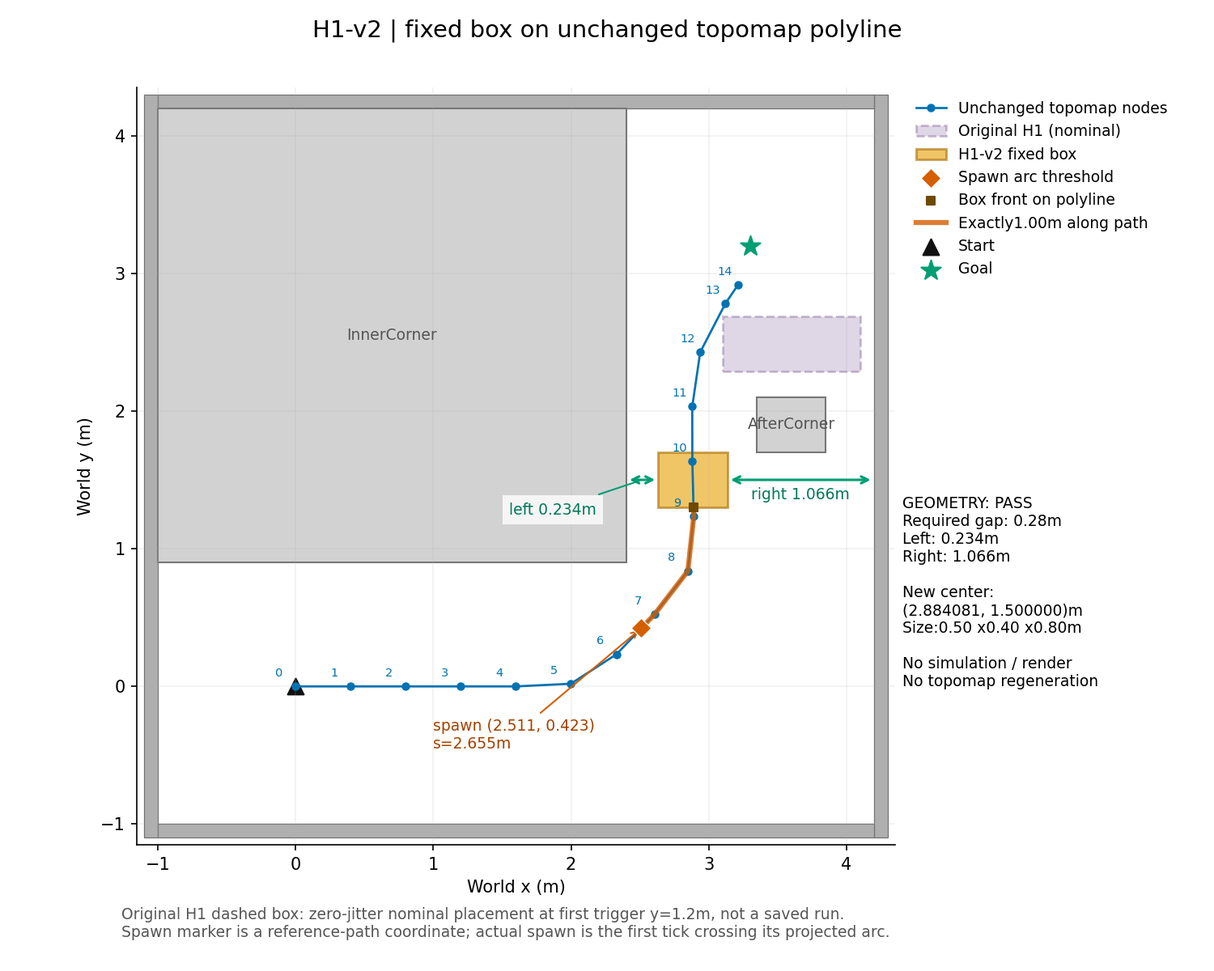
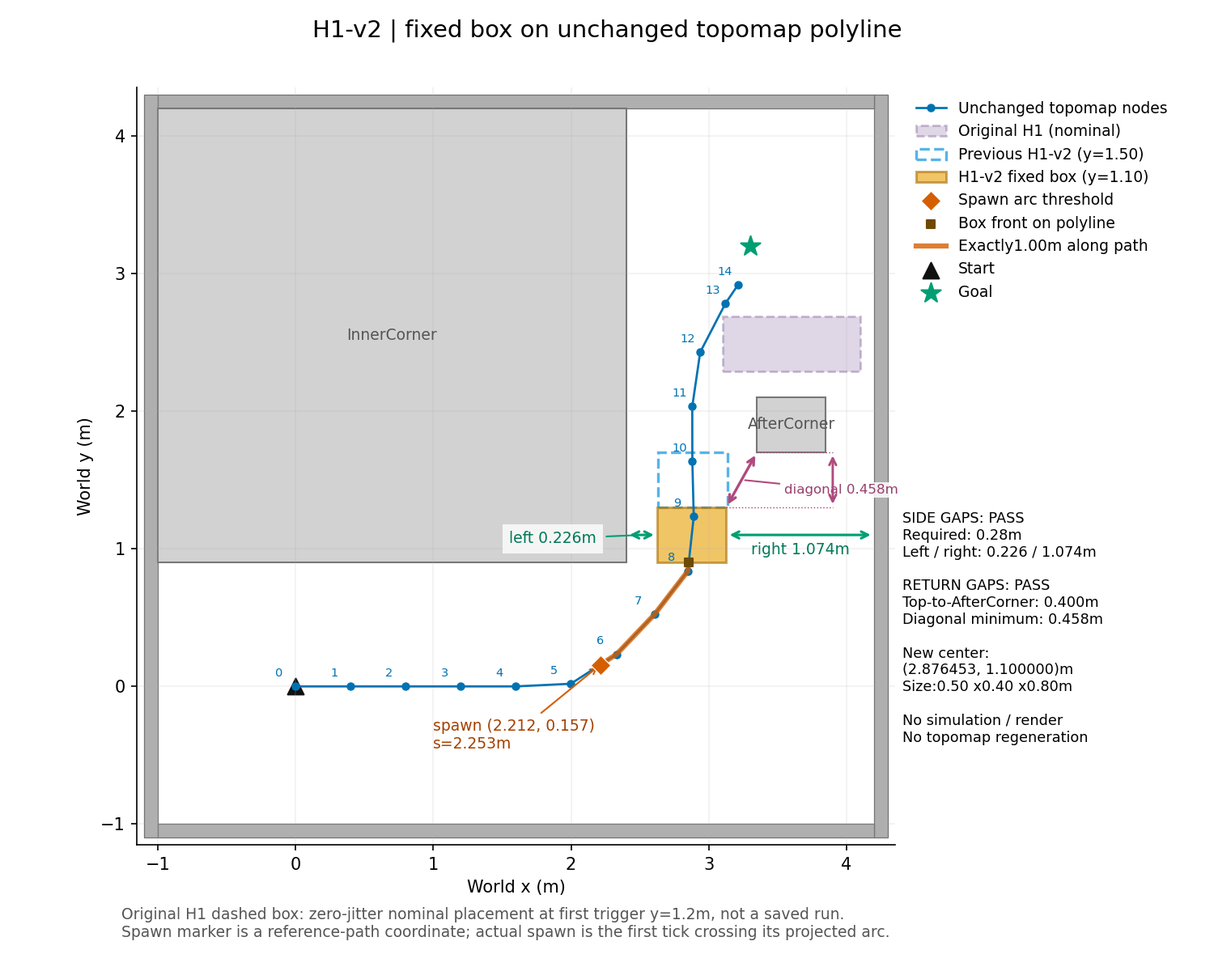
Move H1-v2 box to y1.10 and report exact return corridor gaps

diff --git a/research/nomad_h1v2/prepare.py b/research/nomad_h1v2/prepare.py
@@ -10,31 +10,35 @@ from nomad_isaac.common import ROOT,sha256_file
 from nomad_phase26.config import runtime_config
 from nomad_phase26.scenes import place as old_place
 from nomad_phase38.scenes import gap_check
-from .scene import HERE,SIZE,polyline,target,nearest_nonoverlap,box_front,at,overlap_reasons
+from .scene import HERE,SIZE,polyline,target,nearest_nonoverlap,box_front,at,overlap_reasons,return_gap_check
 
 def save(path,value):path.parent.mkdir(exist_ok=True,parents=True);path.write_text(json.dumps(value,indent=2,ensure_ascii=False,allow_nan=False)+'\n')
 
 def build():
     c=runtime_config('C0',201,90,'H1');manifest=Path(c['topomap_manifest']);m=json.loads(manifest.read_text());points=np.array([n['world_pose'][:2] for n in m['nodes']])
-    desired,s_desired=target(points);center,s_center,adjusted=nearest_nonoverlap(c,points,desired,s_desired)
+    desired,s_desired=target(points,1.10);center,s_center,adjusted=desired,s_desired,False
+    previous,previous_s=target(points,1.5)
     front_s,front=box_front(points,center);spawn_s=front_s-1.
     if spawn_s<0:raise ValueError('Box front is less than1m from reference start; cannot define requested trigger')
     spawn,i=at(points,spawn_s);delta=points[i+1]-points[i];yaw=float(np.arctan2(delta[1],delta[0]))
     box=dict(id='DynamicObstacle',center_xy_m=center.tolist(),size_xyz_m=list(SIZE))
-    gap=gap_check(c,box,1)
+    gap=gap_check(c,box,1);return_gap=return_gap_check(c,box);overlaps=overlap_reasons(c,center)
+    previous_box=dict(id='PreviousH1v2',center_xy_m=previous.tolist(),size_xyz_m=list(SIZE))
     old_robot,_=target(points,1.2);old=old_place(c,[*old_robot,np.pi/2],0)
-    assert old['status']=='PLACED' and not overlap_reasons(c,center)
+    assert old['status']=='PLACED'
     sources=[ROOT/'research/nomad_isaac/scenarios/phase16_lc.json',ROOT/'research/nomad_phase26/config.py',ROOT/'research/nomad_phase26/scenes.py',ROOT/'research/nomad_phase26/rendering.py',ROOT/'research/nomad_phase26/protocol.json',ROOT/'research/nomad_phase38/scenes.py',manifest]
     refs=[]
     for n in m['nodes']:
         f=manifest.parent/n['rgb_file'];assert sha256_file(f)==n['png_sha256'];refs.append(f)
     hashes={os.path.relpath(f,ROOT):sha256_file(f) for f in sources+refs}
-    spec=dict(scene='H1-v2',status='GEOMETRY_PREPARED' if gap['passed'] else 'GAP_CHECK_FAIL',simulations=0,renders=0,
+    spec=dict(scene='H1-v2',status='GEOMETRY_PREPARED' if gap['passed'] and return_gap['passed'] and not overlaps else 'GEOMETRY_CHECK_FAIL',simulations=0,renders=0,
         frozen_geometry={k:c[k] for k in ('corridor','obstacles','start_pose','goal_pose','agent_radius_m')},
         topomap_manifest=str(manifest),topomap_sha256=sha256_file(manifest),topomap_nodes_xy_m=points.tolist(),
-        source_sha256=hashes,requested_target=dict(x_hint_m=2.5,y_m=1.5,position_xy_m=desired.tolist(),arc_m=s_desired),
+        source_sha256=hashes,requested_target=dict(x_hint_m=2.5,y_m=1.10,position_xy_m=desired.tolist(),arc_m=s_desired),
         box=dict(box,arc_m=s_center,yaw_rad=0.),position_adjusted_for_overlap=adjusted,
-        nearest_position_rule='If overlap only: minimum Euclidean displacement from requested polyline point;ties arc displacement then earliest arc. No movement after gap failure.',
+        nearest_position_rule='Fixed polyline y=1.10;no relocation on overlap,gap or return-gap failure.',
+        static_overlap_reasons=overlaps,return_gap_check=return_gap,
+        previous_h1v2_preview=dict(box=previous_box,arc_m=previous_s,source_commit='88fd53a',return_gap_check=return_gap_check(c,previous_box)),
         box_front=dict(position_xy_m=front.tolist(),arc_m=front_s,definition='first intersection of forward topomap node polyline with closed box footprint'),
         spawn=dict(position_xy_m=spawn.tolist(),heading_rad=yaw,arc_m=spawn_s,lead_arc_m=1.,
             rule='First72Hz tick with projected robot-center arc>=box_front_arc-1.0m,once only;projection onto stored node polyline,no actual tick/time predetermined'),
@@ -57,8 +61,10 @@ def preview(p):
     for i,point in enumerate(points):ax.annotate(str(i),point,xytext=(-12,6),textcoords='offset points',color='#0072B2',fontsize=7)
     old=p['existing_h1_preview']['box'];cc=np.array(old['center_xy_m']);hh=np.array(old['size_xyz_m'][:2])/2
     ax.add_patch(Rectangle(cc-hh,*2*hh,fc='#A58ABA',ec='#6A4387',ls='--',lw=1.3,alpha=.35,label='Original H1 (nominal)'))
+    previous=p['previous_h1v2_preview']['box'];pc=np.asarray(previous['center_xy_m']);ph=np.asarray(previous['size_xyz_m'][:2])/2
+    ax.add_patch(Rectangle(pc-ph,*2*ph,fc='none',ec='#56B4E9',ls='--',lw=1.6,label='Previous H1-v2 (y=1.50)'))
     center=np.asarray(p['box']['center_xy_m']);half=np.asarray(SIZE[:2])/2
-    ax.add_patch(Rectangle(center-half,*2*half,fc='#E69F00',ec='#A76B00',alpha=.6,lw=1.4,label='H1-v2 fixed box'))
+    ax.add_patch(Rectangle(center-half,*2*half,fc='#E69F00',ec='#A76B00',alpha=.6,lw=1.4,label='H1-v2 fixed box (y=1.10)'))
     spawn=np.asarray(p['spawn']['position_xy_m']);front=np.asarray(p['box_front']['position_xy_m'])
     ax.scatter(*spawn,marker='D',s=70,c='#D55E00',ec='white',lw=.6,zorder=8,label='Spawn arc threshold')
     ax.scatter(*front,marker='s',s=24,c='#6E4A00',zorder=8,label='Box front on polyline')
@@ -67,46 +73,63 @@ def preview(p):
     ax.annotate(f"spawn ({spawn[0]:.3f}, {spawn[1]:.3f})\ns={ss:.3f}m",spawn,xytext=(1.0,-.45),arrowprops=dict(arrowstyle='->',color='#D55E00'),color='#A54100',fontsize=9)
     left,right=p['gap_check']['gaps_m'];xl=center[0]-half[0]-left;xr=center[0]+half[0]+right
     for a,b in [(xl,center[0]-half[0]),(center[0]+half[0],xr)]:ax.annotate('',xy=(a,center[1]),xytext=(b,center[1]),arrowprops=dict(arrowstyle='<->',lw=1.5,color='#009E73'))
-    ax.annotate(f'left {left:.3f}m',xy=((xl+center[0]-half[0])/2,center[1]),xytext=(1.55,1.25),color='#007958',fontsize=9,
+    ax.annotate(f'left {left:.3f}m',xy=((xl+center[0]-half[0])/2,center[1]),xytext=(1.55,1.04),color='#007958',fontsize=9,
         arrowprops=dict(arrowstyle='-',color='#009E73'),bbox=dict(fc='white',ec='none',alpha=.8))
     ax.text((center[0]+half[0]+xr)/2,center[1]-.14,f'right {right:.3f}m',color='#007958',ha='center',fontsize=9)
+    back=p['return_gap_check'];qa=np.asarray(back['closest_box_point_xy_m']);qb=np.asarray(back['closest_aftercorner_point_xy_m'])
+    ax.annotate('',xy=qa,xytext=qb,arrowprops=dict(arrowstyle='<->',lw=1.6,color='#B04A7E'))
+    ax.annotate(f"diagonal {back['diagonal_minimum_m']:.3f}m",xy=(qa+qb)/2,xytext=(3.55,1.40),ha='left',color='#963E6D',fontsize=8,
+        arrowprops=dict(arrowstyle='-',color='#B04A7E'),bbox=dict(fc='white',ec='none',alpha=.85,pad=1))
+    vertical_x=3.90
+    ax.annotate('',xy=(vertical_x,back['top_surface_y_m']),xytext=(vertical_x,back['aftercorner_bottom_y_m']),arrowprops=dict(arrowstyle='<->',color='#B04A7E',lw=1.4))
+    ax.plot([qa[0],vertical_x],[back['top_surface_y_m']]*2,':',color='#B04A7E',lw=.7)
+    ax.plot([qb[0],vertical_x],[back['aftercorner_bottom_y_m']]*2,':',color='#B04A7E',lw=.7)
     ax.scatter(*c['start_pose'][:2],s=90,marker='^',c='#111111',label='Start');ax.scatter(*c['goal_pose'][:2],s=150,marker='*',c='#009E73',label='Goal')
     ax.set(xlim=(x0-.15,x1+.15),ylim=(y0-.15,y1+.15),xlabel='World x (m)',ylabel='World y (m)');ax.set_aspect('equal');ax.grid(alpha=.18)
     ax.legend(loc='upper left',bbox_to_anchor=(1.01,1.),frameon=False,fontsize=9)
-    ax.text(1.01,.46,f"GEOMETRY: {p['gap_check']['reason']}\nRequired gap: {p['gap_check']['required_gap_m']:.2f}m\nLeft: {left:.3f}m\nRight: {right:.3f}m\n\nNew center:\n({center[0]:.6f}, {center[1]:.6f})m\nSize:0.50 x0.40 x0.80m\n\nNo simulation / render\nNo topomap regeneration",transform=ax.transAxes,va='top',fontsize=9)
+    ax.text(1.01,.44,f"SIDE GAPS: {p['gap_check']['reason']}\nRequired: {p['gap_check']['required_gap_m']:.2f}m\nLeft / right: {left:.3f} / {right:.3f}m\n\nRETURN GAPS: {back['reason']}\nTop-to-AfterCorner: {back['top_to_aftercorner_m']:.3f}m\nDiagonal minimum: {back['diagonal_minimum_m']:.3f}m\n\nNew center:\n({center[0]:.6f}, {center[1]:.6f})m\nSize:0.50 x0.40 x0.80m\n\nNo simulation / render\nNo topomap regeneration",transform=ax.transAxes,va='top',fontsize=8.5)
     fig.suptitle('H1-v2 | fixed box on unchanged topomap polyline',fontsize=14)
     fig.text(.1,.035,'Original H1 dashed box: zero-jitter nominal placement at first trigger y=1.2m, not a saved run.\nSpawn marker is a reference-path coordinate; actual spawn is the first tick crossing its projected arc.',fontsize=9,color='#555555')
     path=ROOT/'docs/figures/h1v2_scene_preview.png';path.parent.mkdir(exist_ok=True);fig.savefig(path,dpi=150);plt.close(fig);return path
 
 def document(p,test_count):
     def xy(q):return f'({q[0]:.6f}, {q[1]:.6f})'
-    old=p['existing_h1_preview']['box'];new=p['box'];front=p['box_front'];spawn=p['spawn'];gap=p['gap_check']
+    old=p['existing_h1_preview']['box'];new=p['box'];front=p['box_front'];spawn=p['spawn'];gap=p['gap_check'];back=p['return_gap_check'];prev=p['previous_h1v2_preview']
     table='\n'.join(['| 항목 | 좌표 / 값 | 경로 호장 s (m) |','|---|---|---:|',
-        f"| H1-v2 중심 | {xy(new['center_xy_m'])} m | {new['arc_m']:.6f} |",
-        '| 상자 크기 / yaw | 0.5 × 0.4 × 0.8 m (world x/y/z), 0 rad; AfterCorner와 동일 | — |',
+        f"| H1-v2 새 중심(y=1.10) | {xy(new['center_xy_m'])} m | {new['arc_m']:.6f} |",
+        '| 상자 크기 / yaw | 0.5 × 0.4 × 0.8 m (world x/y/z), 0 rad; 변경 없음 | — |',
         f"| 상자 앞면·polyline 교점 | {xy(front['position_xy_m'])} m | {front['arc_m']:.6f} |",
         f"| spawn 기준점 | {xy(spawn['position_xy_m'])} m; tangent {np.degrees(spawn['heading_rad']):.3f}° | {spawn['arc_m']:.6f} |",
-        f"| 기존 H1 기준 상자 중심 | {xy(old['center_xy_m'])} m; 1.0 × 0.4 × 0.8 m | — |",
+        f"| 이전 H1-v2 중심(y=1.50, 점선) | {xy(prev['box']['center_xy_m'])} m | {prev['arc_m']:.6f} |",
+        f"| 원 H1 기준 상자 중심 | {xy(old['center_xy_m'])} m; 1.0 × 0.4 × 0.8 m | — |",
         f"| 좌측 틈(진행 +y 기준 −x) | {gap['left_m']:.6f} m | — |",
         f"| 우측 틈(진행 +y 기준 +x) | {gap['right_m']:.6f} m | — |",
-        f"| Phase38 최소 통과 폭 | 2 × 0.09 + 0.1 = {gap['required_gap_m']:.2f} m; 한쪽 이상 | — |"])
-    text=f'''# H1-v2 장면 준비
+        f"| 최소 통과 폭 | 2 × 0.09 + 0.1 = {gap['required_gap_m']:.2f} m | — |"])
+    comparison='\n'.join(['| 복귀 통로 검사 | 이전 y=1.50 | 새 y=1.10 | 기준 / 판정 |','|---|---:|---:|---|',
+        f"| 상자 윗면 → AfterCorner 아랫면의 y 간격 | {prev['return_gap_check']['top_to_aftercorner_m']:.6f} m | {back['top_to_aftercorner_m']:.6f} m | ≥0.28m / {'PASS' if back['checks']['top_to_aftercorner'] else 'FAIL'} |",
+        f"| 두 상자 표면의 최단 유클리드 거리(대각선) | {prev['return_gap_check']['diagonal_minimum_m']:.6f} m | {back['diagonal_minimum_m']:.6f} m | ≥0.28m / {'PASS' if back['checks']['diagonal_minimum'] else 'FAIL'} |",
+        f"| 위 두 검사 모두 만족 | {prev['return_gap_check']['reason']} | {back['reason']} | 위치 재조정 없음 |"])
+    text=f'''# H1-v2 장면 준비 — y=1.10 수정
 
-**{gap['reason']} — 정적 좌표 검증만 수행. 시뮬레이션·렌더·Topomap 재생성 0회.** 기존 H1 및 다른 장면·방법 코드는 변경하지 않았다.
+**측면 gap {gap['reason']} / 복귀 통로 {back['reason']}.** 정적 좌표 검증만 수행했다. 시뮬레이션·depth 렌더·Topomap 재생성 0회. 기존 H1 및 다른 장면·방법 코드는 변경하지 않았다.
 
 {table}
 
-Topomap 노드 pose를 잇는 polyline의 **y=1.5m 교점**을 사용했다. 이 경로의 x는 약2.884m이므로 `(2.5,1.5)`를 그대로 쓰지 않았다. 벽·정적 상자와 겹치지 않아 위치 조정은 없었다. Gap은 동결 `nomad_phase38.scenes.gap_check(axis=1)`을 직접 호출했다. 좌측은0.28m 미만이지만 우측이 통과하므로 PASS이며, gap 실패를 이유로 위치를 재조정하지 않는다.
+같은 Topomap 노드 polyline의 **y=1.10m 교점**에 중심을 고정했다. 크기·yaw·경로 호장 1.0m 전 spawn 규칙은 그대로다. 벽·정적 상자와 겹침은 없으며, overlap·gap·복귀 통로 검사 실패를 이유로 추가 위치를 찾거나 옮기지 않는다. 좌우 gap은 동결 `nomad_phase38.scenes.gap_check(axis=1)`을 직접 호출했다. 좌측은0.28m 미만이지만 우측이 기준을 만족한다.
 
-Spawn은 로봇 **중심**의 실제 pose를 같은 노드 polyline에 투영한 호장이 `s_front−1.0m` 이상이 되는 **첫72Hz tick**, 단1회다. 앞면은 진행 순서상 polyline이 상자 footprint에 처음 들어가는 교점이다. 1.0m는 경로 호장 차이이며 별도 반경 보정은 없다. 실제 tick·시각·pose는 주행 전에는 정하지 않는다. 그림의 spawn 점은 경로 위 기준점이다.
+{comparison}
 
-기존 H1 상자는 고정 y가 아니라 실제 spawn pose에 따라 달라진다. 비교 그림에는 jitter0·기존 첫 trigger y=1.2m 기준의 중심`(3.6,2.49)`를 썼다(원래 trigger 구간y=1.2~1.3이면 상자 중심y=2.49~2.59). 실제 과거 run의 위치로 해석하지 않는다. 새 상자는 seed/jitter와 무관한 고정 좌표다.
+복귀 통로 수치는 world 좌표의 물체 **표면 사이 폭**이다. 새 상자 윗면은 y={back['top_surface_y_m']:.3f}m, AfterCorner 아랫면은 y={back['aftercorner_bottom_y_m']:.3f}m이므로 y 간격은{back['top_to_aftercorner_m']:.3f}m이다. 두 사각형은 x방향으로도{back['horizontal_separation_m']:.6f}m 떨어져 있다. 따라서 정확한 표면 최소 거리는 `sqrt(Δx²+Δy²)`={back['diagonal_minimum_m']:.6f}m이며, 최근접 점은 새 상자 우상단{xy(back['closest_box_point_xy_m'])} ↔ AfterCorner 좌하단{xy(back['closest_aftercorner_point_xy_m'])}이다. 두 값 모두0.28m와 비교했다. 이는 우측 통과 후 복귀 구간의 **국소 정적 기하 검사**이며, PP 추종·전체 경로 완주를 시뮬레이션으로 검증한 결과는 아니다.
 
-![H1-v2 geometry preview](figures/h1v2_scene_preview.png)
+Spawn은 로봇 중심의 실제 pose를 동일 polyline에 투영한 호장이 `s_front−1.0m` 이상이 되는 첫72Hz tick, 단1회다. 앞면은 진행 순서상 polyline이 상자 footprint에 처음 들어가는 교점이다. 별도 반경 보정은 없다. 실제 tick·시각·pose는 미정이며 그림의 spawn 점은 경로 위 기준점이다.
 
-구현: `research/nomad_h1v2/scene.py`, 좌표·hash: `research/nomad_h1v2/scene.json`. 향후 H1 config에 `configure(h1_config)`를 적용한 뒤 기존 방법 환경 초기화 **후** `install_environment(config)`를 명시적으로 호출한다. 원 H1의 geometry·Topomap·렌더·접촉/통과 평가를 재사용하며 신규 monitor는 box 배치와 spawn 조건만 바꾼다. 이 준비는 campaign에 자동 연결하거나 실행하지 않는다.
+![H1-v2 updated geometry preview](figures/h1v2_scene_preview.png)
 
-기하 단위테스트 **{test_count}개 PASS**. Topomap15개 이미지와 manifest, 기존 H1 scene 및 참조 코드 hash를 고정·재확인했다. Topomap manifest SHA256: `{p['topomap_sha256']}`. 재생성 명령(시뮬레이션 없음): `PYTHONPATH=research /usr/bin/python3 -m nomad_h1v2.prepare`.
+주황 실선 상자는 새 위치, 하늘색 점선은 이전 H1-v2(y=1.50, 커밋 `88fd53a`), 보라 점선은 원 H1의 jitter0·기존 trigger y=1.2 기준 상자다. 원 H1 중심 `(3.6,2.49)`는 비교용 기준 배치이며 실제 과거 run 위치로 해석하지 않는다. 이전 H1-v2 좌표·복귀 검사 수치도 `scene.json`에 함께 남겼다.
+
+구현: `research/nomad_h1v2/scene.py`, 좌표·hash: `research/nomad_h1v2/scene.json`. 기존 명시적 `configure(h1_config)` → 원 방법 초기화 → `install_environment(config)` 연결 방식은 동일하다. 복귀 검사는 보고용이며 실행기·평가기·spawn 로직을 바꾸지 않는다. 본 준비는 campaign에 연결하거나 실행하지 않는다.
+
+기하 단위테스트 **{test_count}개 PASS**. 기존 H1 scene·Topomap15개 이미지·manifest 및 참조 코드 hash 재확인. Topomap SHA256: `{p['topomap_sha256']}`. 재생성 명령(시뮬레이션 없음): `PYTHONPATH=research /usr/bin/python3 -m nomad_h1v2.prepare`.
 '''
     (ROOT/'docs/H1V2_SCENE_PREP.md').write_text(text)
 
@@ -117,7 +140,7 @@ def main():
     import re
     n=int(re.search(r'Ran (\d+) tests',r.stderr).group(1));preview(p);document(p,n)
     from .scene import load_spec
-    load_spec();save(HERE/'validation.json',dict(tests_passed=n,simulations=0,renders=0,original_sources_unchanged=True,gap_check=p['gap_check'],
+    load_spec();save(HERE/'validation.json',dict(tests_passed=n,simulations=0,renders=0,original_sources_unchanged=True,gap_check=p['gap_check'],return_gap_check=p['return_gap_check'],
         source_sha256={f.name:sha256_file(f) for f in HERE.glob('*.py')},scene_sha256=sha256_file(HERE/'scene.json')))
     print(json.dumps(dict(status=p['status'],center=p['box']['center_xy_m'],spawn=p['spawn']['position_xy_m'],gaps=p['gap_check']['gaps_m'],tests=n,simulations=0)))
 if __name__=='__main__':main()

diff --git a/research/nomad_h1v2/test_scene.py b/research/nomad_h1v2/test_scene.py
@@ -10,19 +10,30 @@ from . import scene
 class Tests(unittest.TestCase):
     def setUp(self):self.base=runtime_config('C0',201,90,'H1');self.p=scene.load_spec()
     def test_requested_center_and_size(self):
-        q,s=scene.target(self.p['topomap_nodes_xy_m']);np.testing.assert_allclose(q,[2.8840808527897175,1.5],atol=1e-12,rtol=0)
+        q,s=scene.target(self.p['topomap_nodes_xy_m']);np.testing.assert_allclose(q,[2.8764528309775836,1.10],atol=1e-12,rtol=0)
         np.testing.assert_array_equal(q,self.p['box']['center_xy_m']);self.assertFalse(self.p['position_adjusted_for_overlap'])
         after=next(o for o in self.base['obstacles'] if o['id']=='AfterCorner');self.assertEqual(list(scene.SIZE),after['size_xyz_m'])
     def test_phase38_gap_and_no_overlap(self):
         p=self.p;self.assertEqual(scene.overlap_reasons(self.base,p['box']['center_xy_m']),[])
         result=gap_check(self.base,p['box'],1);self.assertTrue(result['passed']);self.assertEqual(result['required_gap_m'],.28)
-        np.testing.assert_allclose(result['gaps_m'],[.23408085278971758,1.0659191472102827],atol=1e-12,rtol=0)
+        np.testing.assert_allclose(result['gaps_m'],[.22645283097758373,1.0735471690224165],atol=1e-12,rtol=0)
     def test_front_and_one_meter_arc_trigger_once(self):
         c=scene.configure(self.base);p=c['h1v2'];front_s,front=scene.box_front(p['topomap_nodes_xy_m'],p['box']['center_xy_m'])
-        self.assertAlmostEqual(front[1],1.3);self.assertAlmostEqual(front_s-p['spawn']['arc_m'],1.)
+        self.assertAlmostEqual(front[1],.9);self.assertAlmostEqual(front_s-p['spawn']['arc_m'],1.)
         for delta,expected in [(-1e-5,False),(1e-5,True),(.02,True)]:
             xy,_=scene.at(p['topomap_nodes_xy_m'],p['spawn']['arc_m']+delta)
             self.assertEqual(scene.triggered(c,[*xy,0.],0),expected);self.assertFalse(scene.triggered(c,[*xy,0.],1))
+    def test_return_corridor_widths_and_exact_corner_witness(self):
+        r=scene.return_gap_check(self.base,self.p['box']);self.assertTrue(r['passed']);self.assertAlmostEqual(r['top_to_aftercorner_m'],.4)
+        self.assertAlmostEqual(r['diagonal_minimum_m'],.4582284766117627)
+        self.assertAlmostEqual(r['horizontal_separation_m'],.22354716902241645)
+        distance=np.linalg.norm(np.array(r['closest_box_point_xy_m'])-r['closest_aftercorner_point_xy_m'])
+        self.assertAlmostEqual(distance,r['diagonal_minimum_m']);self.assertEqual(r['required_gap_m'],.28)
+    def test_previous_position_return_check_failure_does_not_mutate_box(self):
+        box=copy.deepcopy(self.p['previous_h1v2_preview']['box']);before=copy.deepcopy(box)
+        r=scene.return_gap_check(self.base,box);self.assertFalse(r['passed']);self.assertEqual(box,before)
+        self.assertAlmostEqual(r['top_to_aftercorner_m'],0.);self.assertAlmostEqual(r['diagonal_minimum_m'],.2159191472102826)
+        self.assertEqual(r['checks'],dict(top_to_aftercorner=False,diagonal_minimum=False))
     def test_config_is_opt_in_and_preserves_frozen_inputs(self):
         before=copy.deepcopy(self.base);c=scene.configure(self.base);self.assertEqual(self.base,before)
         for k,v in before.items():

diff --git a/research/nomad_h1v2/scene.py b/research/nomad_h1v2/scene.py
@@ -28,7 +28,7 @@ def project(points,pose):
     q=a+u[:,None]*delta;i=int(np.argmin(np.sum((q-np.asarray(pose)[:2])**2,axis=1)))
     return float(arc[i]+u[i]*(arc[i+1]-arc[i])),q[i]
 
-def target(points,y=1.5,x_hint=2.5):
+def target(points,y=1.10,x_hint=2.5):
     xy,arc=polyline(points);found=[]
     for i,(a,b) in enumerate(zip(xy[:-1],xy[1:])):
         if abs(b[1]-a[1])<1e-12:
@@ -37,7 +37,7 @@ def target(points,y=1.5,x_hint=2.5):
         else:u=(y-a[1])/(b[1]-a[1])
         if 0<=u<=1:
             q=a+u*(b-a);s=arc[i]+u*(arc[i+1]-arc[i]);found.append((abs(q[0]-x_hint),float(s),q))
-    if not found:raise ValueError('Topomap polyline does not intersect y=1.5m')
+    if not found:raise ValueError(f'Topomap polyline does not intersect y={y}m')
     _,s,q=min(found,key=lambda item:(item[0],item[1]));return q,s
 
 def overlap_reasons(c,center,size=SIZE):
@@ -93,6 +93,28 @@ def box_front(points,center,size=SIZE):
         if left<=right:hits.append((float(arc[i]+left*(arc[i+1]-arc[i])),a+left*delta))
     if not hits:raise ValueError('Selected box does not intersect topomap polyline')
     return min(hits,key=lambda x:x[0])
+
+def return_gap_check(c,box):
+    """Report-only, exact static AABB surface gaps to AfterCorner.
+
+    Both physical widths are compared with2r+.1. No relocation, controller
+    change or navigation feasibility claim follows from this local check.
+    """
+    after=next(o for o in configured_obstacles(c) if o['id']=='AfterCorner')
+    lo=np.asarray(box['center_xy_m'])-np.asarray(box['size_xyz_m'][:2])/2
+    hi=np.asarray(box['center_xy_m'])+np.asarray(box['size_xyz_m'][:2])/2
+    a=np.asarray(after['center_xy_m'])-np.asarray(after['size_xyz_m'][:2])/2
+    b=np.asarray(after['center_xy_m'])+np.asarray(after['size_xyz_m'][:2])/2
+    sep=np.maximum(np.maximum(a-hi,lo-b),0.)
+    vertical=float(a[1]-hi[1]);distance=float(np.linalg.norm(sep));required=float(2*c['agent_radius_m']+.1)
+    first=np.clip((a+b)/2,lo,hi);second=np.clip(first,a,b);first=np.clip(second,lo,hi)
+    checks=dict(top_to_aftercorner=bool(vertical>=required),diagonal_minimum=bool(distance>=required))
+    return dict(passed=all(checks.values()),reason='PASS' if all(checks.values()) else 'RETURN_GAP_FAIL',required_gap_m=required,
+        top_surface_y_m=float(hi[1]),aftercorner_bottom_y_m=float(a[1]),top_to_aftercorner_m=vertical,
+        horizontal_separation_m=float(sep[0]),diagonal_minimum_m=distance,
+        closest_box_point_xy_m=first.tolist(),closest_aftercorner_point_xy_m=second.tolist(),checks=checks,
+        definition='top/bottom signed y gap and exact minimum Euclidean surface distance between world-axis-aligned boxes;physical width,not footprint clearance',
+        scope='Static local geometry only;no rollout or claim that PP can complete the return maneuver')
 
 def load_spec():
     p=json.loads((HERE/'scene.json').read_text())

diff --git a/docs/H1V2_SCENE_PREP.md b/docs/H1V2_SCENE_PREP.md
@@ -1,26 +1,35 @@
-# H1-v2 장면 준비
+# H1-v2 장면 준비 — y=1.10 수정
 
-**PASS — 정적 좌표 검증만 수행. 시뮬레이션·렌더·Topomap 재생성 0회.** 기존 H1 및 다른 장면·방법 코드는 변경하지 않았다.
+**측면 gap PASS / 복귀 통로 PASS.** 정적 좌표 검증만 수행했다. 시뮬레이션·depth 렌더·Topomap 재생성 0회. 기존 H1 및 다른 장면·방법 코드는 변경하지 않았다.
 
 | 항목 | 좌표 / 값 | 경로 호장 s (m) |
 |---|---|---:|
-| H1-v2 중심 | (2.884081, 1.500000) m | 3.855387 |
-| 상자 크기 / yaw | 0.5 × 0.4 × 0.8 m (world x/y/z), 0 rad; AfterCorner와 동일 | — |
-| 상자 앞면·polyline 교점 | (2.889147, 1.300000) m | 3.655323 |
-| spawn 기준점 | (2.510571, 0.422807) m; tangent 46.406° | 2.655323 |
-| 기존 H1 기준 상자 중심 | (3.600000, 2.490000) m; 1.0 × 0.4 × 0.8 m | — |
-| 좌측 틈(진행 +y 기준 −x) | 0.234081 m | — |
-| 우측 틈(진행 +y 기준 +x) | 1.065919 m | — |
-| Phase38 최소 통과 폭 | 2 × 0.09 + 0.1 = 0.28 m; 한쪽 이상 | — |
+| H1-v2 새 중심(y=1.10) | (2.876453, 1.100000) m | 3.454524 |
+| 상자 크기 / yaw | 0.5 × 0.4 × 0.8 m (world x/y/z), 0 rad; 변경 없음 | — |
+| 상자 앞면·polyline 교점 | (2.854793, 0.900000) m | 3.253355 |
+| spawn 기준점 | (2.212230, 0.157246) m; tangent 32.847° | 2.253355 |
+| 이전 H1-v2 중심(y=1.50, 점선) | (2.884081, 1.500000) m | 3.855387 |
+| 원 H1 기준 상자 중심 | (3.600000, 2.490000) m; 1.0 × 0.4 × 0.8 m | — |
+| 좌측 틈(진행 +y 기준 −x) | 0.226453 m | — |
+| 우측 틈(진행 +y 기준 +x) | 1.073547 m | — |
+| 최소 통과 폭 | 2 × 0.09 + 0.1 = 0.28 m | — |
 
-Topomap 노드 pose를 잇는 polyline의 **y=1.5m 교점**을 사용했다. 이 경로의 x는 약2.884m이므로 `(2.5,1.5)`를 그대로 쓰지 않았다. 벽·정적 상자와 겹치지 않아 위치 조정은 없었다. Gap은 동결 `nomad_phase38.scenes.gap_check(axis=1)`을 직접 호출했다. 좌측은0.28m 미만이지만 우측이 통과하므로 PASS이며, gap 실패를 이유로 위치를 재조정하지 않는다.
+같은 Topomap 노드 polyline의 **y=1.10m 교점**에 중심을 고정했다. 크기·yaw·경로 호장 1.0m 전 spawn 규칙은 그대로다. 벽·정적 상자와 겹침은 없으며, overlap·gap·복귀 통로 검사 실패를 이유로 추가 위치를 찾거나 옮기지 않는다. 좌우 gap은 동결 `nomad_phase38.scenes.gap_check(axis=1)`을 직접 호출했다. 좌측은0.28m 미만이지만 우측이 기준을 만족한다.
 
-Spawn은 로봇 **중심**의 실제 pose를 같은 노드 polyline에 투영한 호장이 `s_front−1.0m` 이상이 되는 **첫72Hz tick**, 단1회다. 앞면은 진행 순서상 polyline이 상자 footprint에 처음 들어가는 교점이다. 1.0m는 경로 호장 차이이며 별도 반경 보정은 없다. 실제 tick·시각·pose는 주행 전에는 정하지 않는다. 그림의 spawn 점은 경로 위 기준점이다.
+| 복귀 통로 검사 | 이전 y=1.50 | 새 y=1.10 | 기준 / 판정 |
+|---|---:|---:|---|
+| 상자 윗면 → AfterCorner 아랫면의 y 간격 | 0.000000 m | 0.400000 m | ≥0.28m / PASS |
+| 두 상자 표면의 최단 유클리드 거리(대각선) | 0.215919 m | 0.458228 m | ≥0.28m / PASS |
+| 위 두 검사 모두 만족 | RETURN_GAP_FAIL | PASS | 위치 재조정 없음 |
 
-기존 H1 상자는 고정 y가 아니라 실제 spawn pose에 따라 달라진다. 비교 그림에는 jitter0·기존 첫 trigger y=1.2m 기준의 중심`(3.6,2.49)`를 썼다(원래 trigger 구간y=1.2~1.3이면 상자 중심y=2.49~2.59). 실제 과거 run의 위치로 해석하지 않는다. 새 상자는 seed/jitter와 무관한 고정 좌표다.
+복귀 통로 수치는 world 좌표의 물체 **표면 사이 폭**이다. 새 상자 윗면은 y=1.300m, AfterCorner 아랫면은 y=1.700m이므로 y 간격은0.400m이다. 두 사각형은 x방향으로도0.223547m 떨어져 있다. 따라서 정확한 표면 최소 거리는 `sqrt(Δx²+Δy²)`=0.458228m이며, 최근접 점은 새 상자 우상단(3.126453, 1.300000) ↔ AfterCorner 좌하단(3.350000, 1.700000)이다. 두 값 모두0.28m와 비교했다. 이는 우측 통과 후 복귀 구간의 **국소 정적 기하 검사**이며, PP 추종·전체 경로 완주를 시뮬레이션으로 검증한 결과는 아니다.
 
-![H1-v2 geometry preview](figures/h1v2_scene_preview.png)
+Spawn은 로봇 중심의 실제 pose를 동일 polyline에 투영한 호장이 `s_front−1.0m` 이상이 되는 첫72Hz tick, 단1회다. 앞면은 진행 순서상 polyline이 상자 footprint에 처음 들어가는 교점이다. 별도 반경 보정은 없다. 실제 tick·시각·pose는 미정이며 그림의 spawn 점은 경로 위 기준점이다.
 
-구현: `research/nomad_h1v2/scene.py`, 좌표·hash: `research/nomad_h1v2/scene.json`. 향후 H1 config에 `configure(h1_config)`를 적용한 뒤 기존 방법 환경 초기화 **후** `install_environment(config)`를 명시적으로 호출한다. 원 H1의 geometry·Topomap·렌더·접촉/통과 평가를 재사용하며 신규 monitor는 box 배치와 spawn 조건만 바꾼다. 이 준비는 campaign에 자동 연결하거나 실행하지 않는다.
+![H1-v2 updated geometry preview](figures/h1v2_scene_preview.png)
 
[1 lines of base64/hex data omitted]
+주황 실선 상자는 새 위치, 하늘색 점선은 이전 H1-v2(y=1.50, 커밋 `88fd53a`), 보라 점선은 원 H1의 jitter0·기존 trigger y=1.2 기준 상자다. 원 H1 중심 `(3.6,2.49)`는 비교용 기준 배치이며 실제 과거 run 위치로 해석하지 않는다. 이전 H1-v2 좌표·복귀 검사 수치도 `scene.json`에 함께 남겼다.
+
+구현: `research/nomad_h1v2/scene.py`, 좌표·hash: `research/nomad_h1v2/scene.json`. 기존 명시적 `configure(h1_config)` → 원 방법 초기화 → `install_environment(config)` 연결 방식은 동일하다. 복귀 검사는 보고용이며 실행기·평가기·spawn 로직을 바꾸지 않는다. 본 준비는 campaign에 연결하거나 실행하지 않는다.
+
[1 lines of base64/hex data omitted]
